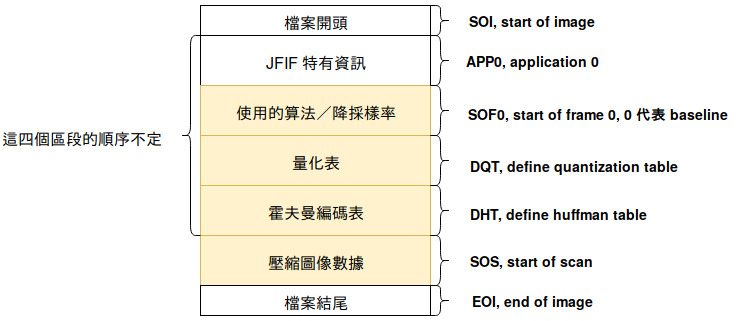
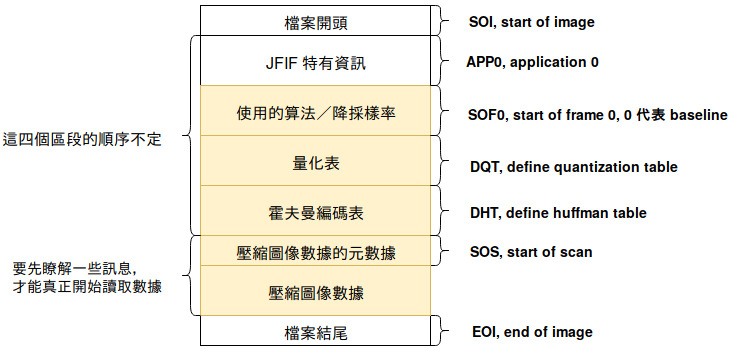
將 SOS 與 壓縮圖像數據 分開

diff --git a/doc/跟我寫jpeg解碼器（二）檔案結構.md b/doc/跟我寫jpeg解碼器（二）檔案結構.md
@@ -13,21 +13,22 @@
 
 我們在[上一篇](https://github.com/MROS/jpeg_tutorial/blob/master/doc/%E8%B7%9F%E6%88%91%E5%AF%ABjpeg%E8%A7%A3%E7%A2%BC%E5%99%A8%EF%BC%88%E4%B8%80%EF%BC%89%E6%A6%82%E8%BF%B0.md)提到過，JPEG 支援多種算法，所以也必須記錄究竟選擇的是哪一種。
 
-綜上所述，我們可以推估我們的壓縮檔可能是由以下幾個區段組成的：
+綜上所述，我們可以推估 JPEG 壓縮檔可能是由以下幾個區段組成的：
 
 ![JPEG檔案結構](https://raw.githubusercontent.com/MROS/jpeg_tutorial/master/doc/image/JPEG%E6%AA%94%E6%A1%88%E7%B5%90%E6%A7%8B.jpg)
 
 這跟現實很接近了，但仍有幾點不同
 
 - JPEG 檔在開始跟結尾處，分別會有「檔案開始」跟「檔案結束」的標記
-- 遵循 JFIF 規範的檔案，會多出一個區段，記錄 JFIF 的額外資訊
+- 遵循 JFIF 規範的檔案，會多出一個區段 APP0，記錄 JFIF 的額外資訊
 - 「採用何種算法」跟降採樣率放在同一個區段
+- 壓縮圖像數據會前綴一個 SOS 區段，表示接下來該如何讀取
 
-改良過後，我們再畫一次圖
+改良過後，再畫一次圖
 
 ![JPEG檔案結構2](https://raw.githubusercontent.com/MROS/jpeg_tutorial/master/doc/image/JPEG%E6%AA%94%E6%A1%88%E7%B5%90%E6%A7%8B2.jpg)
 
-這次的新圖片終於將大多數 baseline 會使用到的區段都列出來了。 我在右側附註了各個區段的英文名稱，並且用鵝黃色標記出了真正含有解碼所需數據的區段。
+這次的新圖片終於將 baseline 會使用到的區段都列出來了。我在右側附註了各個區段的英文名稱，並且用鵝黃色標記出了含有解碼所需數據的區段。
 
 很多網路資料都會特別解釋 APP0 ，但事實上解碼時並不需要這個區段的資訊。
 
@@ -37,7 +38,7 @@
 
 ## 所有區段共通的結構
 
-所有的區段都會以 0xFF 開頭，緊接着的一個 byte 表示了它是哪一種區段。我們現在將這兩個 bytes 稱之爲標記碼，下表列出了本文會用到的標記碼。
+所有的區段都會以 0xFF 開頭，緊接着的一個 byte 表示了它是哪一種區段。我們現在將這兩個 bytes 稱之爲標記碼，下表列出了本文中會解析的區段標記碼。
 
 | 區段名稱 | 標記碼 |  有無數據 |
 |----------|--------|-----------|
@@ -48,12 +49,12 @@
 | SOF0     | 0xFFC0 | ✅         |
 | SOS      | 0xFFDA | ✅         |
 
-這些區段可以再加以細分
+這些區段可以再加以細分爲
 
-- 無數據區段：長度就只有 2 bytes
-- 有數據區段：在標記碼之後，緊跟着 2 bytes ，表示整個區段扣除那 2 bytes 標記碼之後的長度(*註1)。
+- 無數據區段：長度只有 2 bytes
+- 有數據區段：在標記碼之後，會緊跟着 2 bytes ，表示整個區段扣除那 2 bytes 標記碼之後的長度。
   
-剛好這裏第一次出現了 2 bytes 的數據，特別提醒，JPEG 以 big-endian 來儲存所有大於 1 byte 的數字，強烈建議您在寫程式的時候，實作一個讀取 2 bytes 的函式，很常用到，範例如下：
+剛好這裏第一次出現了 2 bytes 的數據，特別提醒，JPEG 以 big-endian 來儲存所有長度大於 1 byte 的數字，強烈建議您在寫程式的時候，實作一個讀取 2 bytes 的函式，很常用到，範例如下：
 
 ``` rust
 fn read_u16(reader: &mut BufReader<File>) -> u16 {
@@ -62,8 +63,8 @@ fn read_u16(reader: &mut BufReader<File>) -> u16 {
     return (c[0] as u16) * 256 + (c[1] as u16);
 }
 ```
-### 圖像數據對 0xFF 的特殊處理
-看完了標記碼的共通結構，您也許會覺得好奇，那在壓縮圖像數據中，難道不會剛好有 0xFF 嗎？
+### 壓縮圖像數據中 0xFF 的特殊處理
+看完了標記碼的共通結構，您也許會覺得好奇，那在壓縮圖像數據中，難道不會也有 0xFF 嗎？
 
 會的，但爲了避免解析標頭的麻煩，JPEG 規定在壓縮圖像數據中，任何 0xFF 的數據，都必須緊接著一個 0x00 的 byte ，因此如果只想解析標頭，直接跳過 0xFF00 即可。
 
@@ -75,13 +76,4 @@ fn read_u16(reader: &mut BufReader<File>) -> u16 {
 jpeg_tutorial XXX.jpg marker
 ```
 
-可以執行該檔案的 marker_detector 函式，打印出 baseline 流程會使用到的檔頭。
-
-## 註解
-
-(*1) SOS 標記碼之後會接兩個東西
-
-1. 圖像數據的元數據
-2. 壓縮圖像數據
-
-但 SOS 標記碼後的長度並不包含壓縮圖像數據。
+可以執行該檔案的 `marker_detector` 函式，打印出 baseline 流程會使用到的檔頭。

diff --git a/doc/跟我寫jpeg解碼器（三）讀取量化表、霍夫曼表.md b/doc/跟我寫jpeg解碼器（三）讀取量化表、霍夫曼表.md
@@ -12,6 +12,7 @@
 | DHT  | ✅    |
 | SOF0 |      |
 | SOS  |      |
+| 壓縮圖像數據  |     |
 
 ## 範例程式碼：讀取各區段
 
@@ -141,24 +142,11 @@
 雖然花了好一番力氣說明 DHT 的格式，但觀察源碼 reader.rs 中的 read_dqt 函式，會發現其實照着葉子節點的遍歷規則，解析起來不難唷！
 
 ## 術語使用
-發現可能有些讀者會對本章使用的一些術語感到陌生，所以我特別開一小節來一些不常見、或是中文翻譯有很多種的幾個術語跟標記。
 
-### 數字前綴
-- 0x :數字之前前綴 0x 表示是十六進位。
-- 0b :數字之前前綴 0b 表示是二進位。
-
-### 壓縮術語
-
-我將欲壓縮的符號稱爲「信源符號」，表示它是信息源頭那一邊的原始符號，將被壓縮過後的符號稱爲「碼字」。
+我將要被壓縮的符號稱爲「信源符號」，表示它是信息源頭那一邊的原始符號，將被壓縮過後的符號稱爲「碼字」。
 
 例如：用 0b0 代表 A ，0b10 代表 B ，0b11 代表 C。
 
 就能將 AABCAAA 壓縮爲 0b001011000。
 
-此時的 A, B, C 是信源符號。
-
-0b0, 0b10, 0b11 是碼字。
-
-## 後記
-
-用「維持葉子高度，將樹盡可能右傾」來描述規範霍夫曼編碼，是我閱讀簡陋的[中文維基百科](https://zh.wikipedia.org/wiki/%E8%8C%83%E6%B0%8F%E9%9C%8D%E5%A4%AB%E6%9B%BC%E7%B7%A8%E7%A2%BC)之後，自行思考出來的理解方式，幸能將各種性質一一對上，於是一直沿用葉子節點的說法囉！
+此時的 A, B, C 是信源符號，0b0, 0b10, 0b11 是碼字。

diff --git a/doc/跟我寫jpeg解碼器（附錄一）理論基礎.md b/doc/跟我寫jpeg解碼器（附錄一）理論基礎.md
@@ -1,0 +1,1 @@
+用「維持葉子高度，將樹盡可能右傾」來描述規範霍夫曼編碼，是我閱讀簡陋的[中文維基百科](https://zh.wikipedia.org/wiki/%E8%8C%83%E6%B0%8F%E9%9C%8D%E5%A4%AB%E6%9B%BC%E7%B7%A8%E7%A2%BC)之後，自行思考出來的理解方式，幸能將各種性質一一對上，於是一直沿用葉子節點的說法囉！
